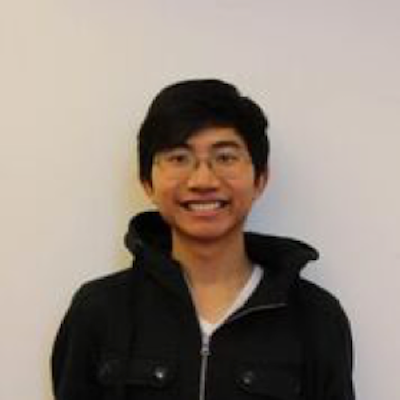
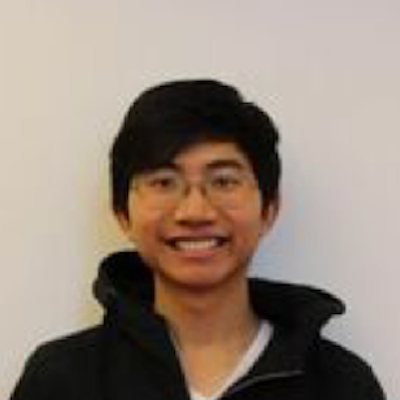
Images resized for Safinah, Gabrieli, Jessica, Danny, Huili; Randi'd image changed

diff --git a/index.html b/index.html
@@ -1039,7 +1039,7 @@
                    <div class="team-box item">
                        <!--Team Image-->
                        <div class="team-image">
-                           <img src="images/team-john.jpg" alt="image">
+                           <img src="images/team-john%20copy.jpg" alt="image">
                            <!--Team Overlay-->
                            <div class="overlay center-block">
                                <!--Team Social-->
@@ -1189,7 +1189,7 @@
                    <div class="team-box item">
                        <!--Team Image-->
                        <div class="team-image">
-                           <img src="images/team-safinah.jpg" alt="image">
+                           <img src="images/team-safinah%20copy.jpg" alt="image">
                            <!--Team Overlay-->
                            <div class="overlay center-block">
                                <!--Team Social-->
@@ -1223,7 +1223,7 @@
                    <div class="team-box item">
                        <!--Team Image-->
                        <div class="team-image">
-                           <img src="images/team-huili.jpeg" alt="image">
+                           <img src="images/team-huili%20copy.jpeg" alt="image">
                            <!--Team Overlay-->
                            <div class="overlay center-block">
                                <!--Team Social-->
@@ -1440,7 +1440,7 @@
                    <div class="team-box item">
                        <!--Team Image-->
                        <div class="team-image">
-                           <img src="images/team-randi.jpg" alt="image">
+                           <img src="images/team-cynthia-randi.png" alt="image">
                            <!--Team Overlay-->
                            <div class="overlay center-block">
                                <!--Team Social-->
